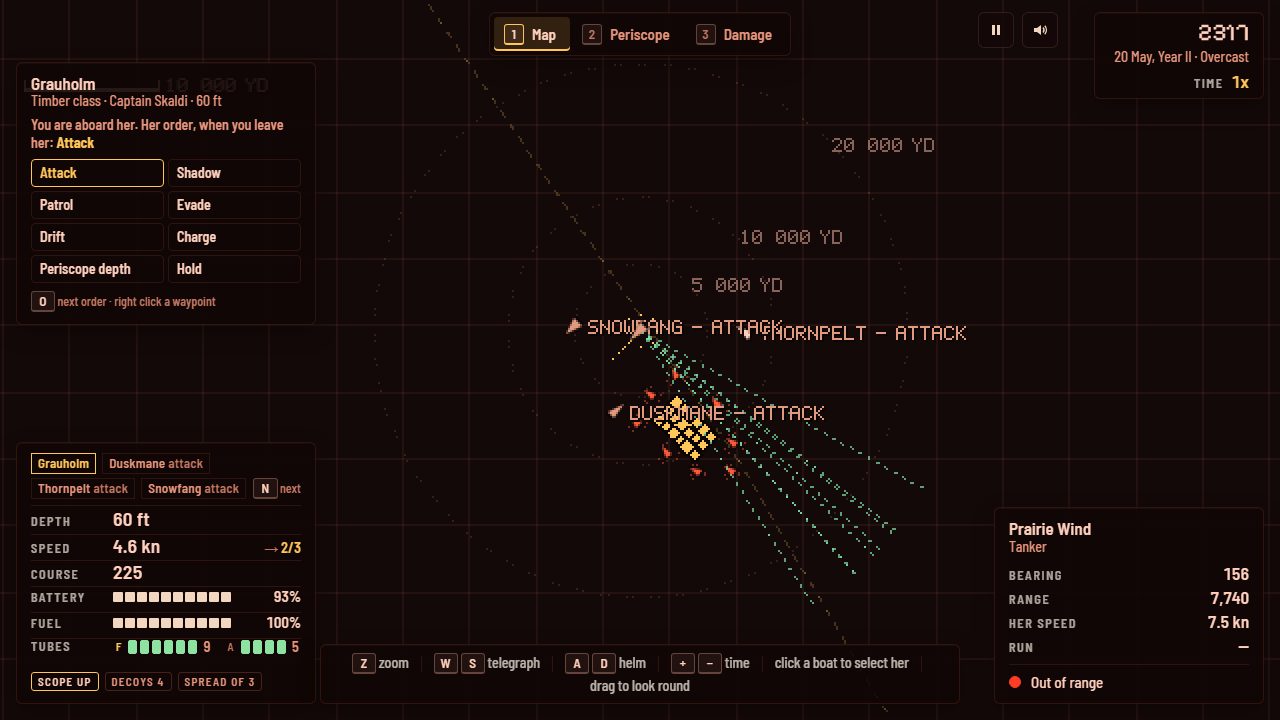
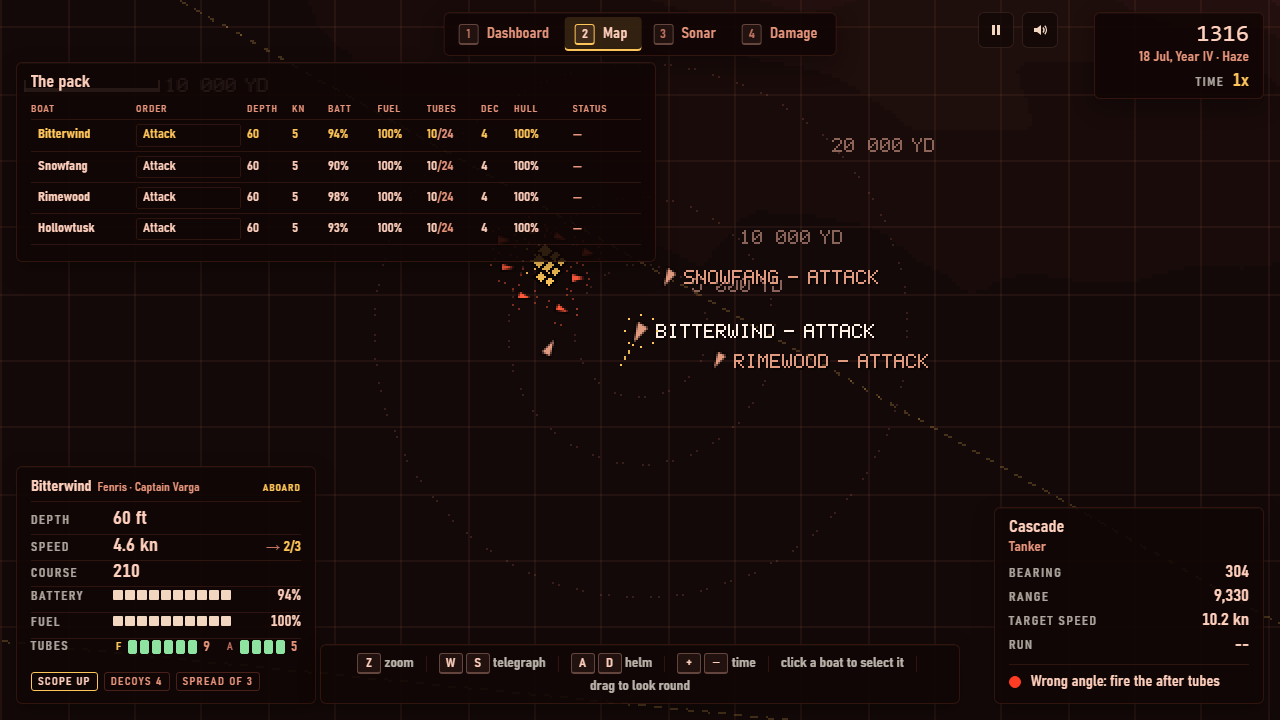
Docs: README, PRODUCT and DESIGN brought up to date; new screenshots
The README follows STANDARD.md §13: the game as it plays now (the
dashboard, the map's ship list and preview card, the sonar waterfall),
the keys 1-5, a Saves section, and six fresh 1280x720 screenshots
(sonar.png new). PRODUCT.md fixes the rename's slip and records that
the game is not bound to Wolfpack; DESIGN.md covers the title painting,
the telegraph, the ship list, the preview card and the waterfall.

The target panel's ON TARGET lamp moves beside the target's name when
the panel is too short for it below, and ?awake=1 keeps the game running
without focus, for headless pictures.

diff --git a/js/main.js b/js/main.js
@@ -844,8 +844,9 @@
     act(a, ev);
   });
   document.addEventListener("keyup", ev => { if (ev.key === "Shift") I.held.delete("shift"); I.up(ev); });
-  addEventListener("blur", () => { I.clear(); if (game.mode === "play") game.pause(); });
-  document.addEventListener("visibilitychange", () => { if (document.hidden) { checkpoint(); if (game.mode === "play") game.pause(); } });
+  /* (?awake=1, for pictures taken headless: the page never has the focus, and play goes on regardless) */
+  addEventListener("blur", () => { I.clear(); if (game.mode === "play" && !game.awake) game.pause(); });
+  document.addEventListener("visibilitychange", () => { if (document.hidden) { checkpoint(); if (game.mode === "play" && !game.awake) game.pause(); } });
   addEventListener("pagehide", () => checkpoint());
   document.addEventListener("pointerdown", () => { SFX.unlock(); if (game.mode === "title" && !SFX.tune && !SMALL.matches) SFX.startTune(); }, true);
   document.addEventListener("pointerover", ev => {
@@ -1066,7 +1067,8 @@
       HUD.build();
       for (const cls of ["freighter", "destroyer", "liner"]) for (const b of [4, 8, 12]) PP.ShipArt.sprite(cls, b, 46, "dusk");
       if (q.has("play")) {
-        /* debug: ?play=<action id>|practice&seed=<n>&side=<pack|escorts>&run=<steps>&station=<view|chart|damage>&hour=<h>&wx=<k>&pause=1 */
+        /* debug: ?play=<action id>|practice&seed=<n>&side=<pack|escorts>&run=<steps>&station=<chart|sonar|damage>&hour=<h>&wx=<k>&pause=1&awake=1 */
+        game.awake = q.has("awake");
         const p = q.get("play"), sd = +(q.get("seed") || 1);
         const S = p === "practice" ? E.newPractice({ seed: sd, real: PP.prefs.real }) : E.newAction(E.ACTIONS.some(a => a.id === p) ? p : "easy", { seed: sd, real: PP.prefs.real, side: q.get("side") || "pack" });
         /* &run=<steps>: the test pilot plays that many steps first, so the picture is mid-battle */

diff --git a/js/art/dash.js b/js/art/dash.js
@@ -391,12 +391,13 @@
       const rows = [["Bearing", PP.deg3(e.brg)], ["Range", PP.num(Math.round(e.rng / 50) * 50) + " yd"], ["Speed", Math.round(e.s) + " kn"], ["Angle", `${Math.round(Math.abs(e.aob) / PP.DEG)}° ${e.aob >= 0 ? "stbd" : "port"}`]];
       rows.forEach(([l, v], i) => lab("ct" + i, `<span class="c">${l}</span><b>${v}</b>`, x + 4, y + 18 + i * 9, "dl", "lm"));
     }
-    const st = !e ? -1 : sol && sol.ok ? 2 : 1, ly = y + h - 9, lx = x + 9;
+    /* the lamp at the foot; where the panel is too short for it under the four rows, up beside the target's name */
+    const low = h >= 18 + 4 * 9 + 8, st = !e ? -1 : sol && sol.ok ? 2 : 1, ly = low ? y + h - 9 : y + 7, lx = low ? x + 9 : x + w - 72;
     K.ring(g, lx, ly, 4, st >= 0 ? AMBER : DIM);
     if (st === 1) K.disc(g, lx, ly, 1.5, 1.5, AMBER);
     if (st === 2) K.disc(g, lx, ly, 4, 4, AMBER);
     const word = st === 2 ? "ON TARGET" : st < 0 ? "NO TARGET" : sol && sol.why === "gyro" ? "WRONG ANGLE" : sol && sol.why === "range" ? "OUT OF RANGE" : "NO SOLUTION";
-    lab("lamp", word, x + 17, ly, "dl lamp" + (st === 2 ? " lit" : st >= 0 ? " read" : ""), "lm");
+    lab("lamp", word, lx + 8, ly, "dl lamp" + (st === 2 ? " lit" : st >= 0 ? " read" : ""), "lm");
   }
 
   /* an odometer under a dial: figures on drums, each rolling up to the next as the one to its right turns over

diff --git a/index.html b/index.html
@@ -76,9 +76,9 @@
 <script src="js/art/intro.js?v=00db4c8a"></script>
 <script src="js/render.js?v=ba066d0c"></script>
 <script src="js/art/sonar.js?v=7cdb788b"></script>
-<script src="js/art/dash.js?v=bc926b65"></script>
+<script src="js/art/dash.js?v=d8d66df8"></script>
 <script src="js/hud.js?v=dc4a68d9"></script>
 <script src="js/screens.js?v=2c9fefa4"></script>
-<script src="js/main.js?v=88d82a8c"></script>
+<script src="js/main.js?v=08368dcf"></script>
 </body>
 </html>

diff --git a/README.md b/README.md
@@ -1,39 +1,42 @@
 # The Long Convoy
 
-**The Wolf Empire's wolfpack against Pumacity's convoys, and the fleet that escorts them.** A remake of *Wolfpack* (NovaLogic, 1990, DOS): command the wolfpack's boats one at a time while the rest sail under their orders, or sail with the Pumacity Defense Fleet (the PDF) and bring the city's shipping through, in modern hi-bit pixel art, in a boat rigged for red light.
+**Defend civilian shipping from the Wolf Empire's submarine packs, or switch sides and take it apart.** A modern re-imagining of *Wolfpack* (NovaLogic, 1990, DOS): command the wolfpack's boats one at a time while the rest sail under their orders, or sail with the Pumacity Defense Fleet (the PDF) and bring the city's convoys through, in hi-bit pixel art, in a boat rigged for red light.
 
 ## Play
 
 [greykit.com/games/thelongconvoy](https://greykit.com/games/thelongconvoy/)
 
-No install required. Plain scripts, no build step, nothing fetched at play time: every picture is drawn and every sound synthesised in the page; the two typefaces ship with it.
+No install required. Plain scripts, no build step, nothing fetched at play time: every picture is drawn and every sound synthesised in the page; the three typefaces ship with it.
 
-![The title: the pack board over the plot, the wolfpack closing on a convoy at night](screenshots/title.png)
+![The title: a destroyer steaming right at dusk, a U-boat running left under her in a dark red sea, and the menu on an engine-room telegraph](screenshots/title.png)
 
 ## How it plays
 
 Pumacity's convoys carry its oil, its ore and its troops between the islands, and the PDF's escorts ring them round. The Wolf Empire has a pack.
 
-- **The dashboard**, as in 1990: the vessel you are aboard, every instrument at once. The view out in the big window, the map in a small one, the telegraph, compass and depth, battery and fuel, the tubes, the snorkel and the Metox radar warning; on an escort the sonar scope and its passive/active switch, the charges' depth and the racks. Every control is a button with a key. **AUTO / USER CONTROL** hands the vessel to its orders while you watch.
-- **The map runs the battle**, as in 1990: the depth in hard bands, every boat of the pack, the convoy as the pack has seen it. Click a boat to select her: her class, captain, depth and order, and the orders to give her.
+- **The dashboard**, as in 1990: the vessel you are aboard, every instrument at once. The view out in the big window (the periscope at periscope depth, the bridge on the surface), the map and the sonar's waterfall in small ones, the telegraph, compass and depth, the dive bubble with its emergency blow and crash dive, battery and fuel, the target and its lamp, and the boat's plan with her tubes, reloads, deck gun, snorkel, radar and noisemakers; on an escort the sonar scope and its passive/active switch, the charges' depth and the racks. Every control is a button with a key. **AUTO / USER CONTROL** hands the vessel to its orders while you watch.
+- **The map runs the battle**, as in 1990: the depth in hard bands, the convoy as your side has seen it, and your whole side listed, a row a vessel: her order, depth, speed, battery, fuel, tubes, noisemakers, hull and her lamps (hunted, silent, charging, snorkelling; on an escort pinging, or too fast to hear). A click on a row selects her and a second takes command; a click on her order gives her the next one. The card at the lower left shows whichever vessel the mouse is over.
 - **Every boat sails under her order:** Attack (her captain finds the convoy and goes in), Shadow, Patrol (her waypoints: a right click on the map), Evade, Drift, Charge, Periscope depth, Hold.
-- **Take command of one boat at a time** (`Enter`, a second click, or `N` for the next): then the view out of her is yours, the periscope at periscope depth and the bridge on the surface, with her helm, telegraph and tubes.
-- **Select and fire.** `T` or a click selects a ship; `Space` fires at her, or at the nearest in range. The boat's fire control aims the shot, and says so when the angle is wrong for those tubes or the range too long. Ships are traced from 3D models at their true angle on the bow; escorts hear, see and ping, and lay depth charges.
+- **Take command of one boat at a time** (`Enter`, a second click, or `N` for the next): then the view out of her is yours, with her helm, telegraph and tubes.
+- **Select and fire.** `T` or a click selects a ship; `Space` fires the spread at her, or at the nearest in range, one torpedo after another. The boat's fire control aims each, and says so when the angle is wrong for those tubes or the range too long. On the surface the deck gun's crew lay it themselves; `G` fires. Ships are traced from 3D models at their true angle on the bow.
+- **The sonar**, after *688 Attack Sub*'s: a waterfall of what you hear, a band at each thing's bearing, brighter the louder, your own speed the noise floor; a depth charge a line right across. An escort's pings are heard going out and coming back off every hull in the beam; from a U-boat you hear them strike yours.
 - **The pack shares what it sees**, and its news comes in its boats' names: who is firing, who is hunted, who is lost. When the boat you are on goes down, command passes to the next.
 
-Eight missions after the 1990 game's, set in the Wolf War: from two boats against five unescorted ships, through the fuel tankers and a hunter-killer group, to eight boats in the decisive battle. And a custom mission of your own making. A boat under water can drop a noisemaker for the escorts to hunt instead of her, and a boat whose radio is damaged can neither take your orders nor send you news.
+Eight missions after the 1990 game's, set in the Wolf War: from two boats against five unescorted ships, through the fuel tankers and a hunter-killer group, to eight boats in the decisive battle. And a custom mission of your own making, and target practice to learn the attack. A boat under water can drop a noisemaker for the escorts to hunt instead of her, and a boat whose radio is damaged can neither take your orders nor send you news.
 
-**Or play the other side**, as the original let you: the **Pumacity Defense Fleet**, aboard one of the convoy's escorts, against a wolfpack whose boats sail under their own captains. Sprint and drift to hear them, ping with the sonar, run in over a contact and lay a pattern of depth charges set to its depth, throw the hedgehog late in the war, and give the other escorts their orders from the map (screen, hunt, patrol, hold). Eight missions have the PDF's side, among them the night defence of an anchorage.
+**Or play the other side**, as the original let you: the **Pumacity Defense Fleet**, aboard one of the convoy's escorts, against a wolfpack whose boats sail under their own captains. Sprint and drift to hear them, ping with the sonar, run in over a contact and lay a pattern of depth charges set to its depth, throw the hedgehog late in the war, fight a surfaced boat with the guns, and give the other escorts their orders from the map (screen, hunt, patrol, hold). Eight missions have the PDF's side, among them the night defence of an anchorage.
 
 Every mission ends with the 1990 game's debrief: who won, a score and one of eleven ratings, each side's vessels at the start and lost, every weapon's fired, hits and kills, and every boat by name.
 
-![The map as the wolfpack: every boat's order beside her, the orders panel for the one selected, the convoy under the hydrophones' lines of bearing](screenshots/map.png)
+![The map as the wolfpack: the pack listed with each boat's order, depth, battery, tubes and hull, the boats on the plot, and the card for the boat you are aboard](screenshots/map.png)
 
-![A wolf boat's dashboard: the periscope on the convoy in the big window, the map in the small one, the telegraph, compass, depth, battery and fuel, the tubes, the snorkel and Metox](screenshots/dashboard.png)
+![A wolf boat's dashboard: the periscope on a tanker at 2,500 yards, the target lamp on, the sonar's waterfall with the convoy's band ahead, the dials, the dive bubble and the boat's plan with her tubes](screenshots/dashboard.png)
 
-![A PDF escort's dashboard: her bridge, the telegraph and compass, the sonar scope and its P / A switch, the charges set for 150 feet](screenshots/pdf-dashboard.png)
+![The Sonar screen aboard an escort: the convoy's screws as bands on the waterfall, and what is heard listed by bearing](screenshots/sonar.png)
 
-![The map as the PDF: the escorts round the convoy, each with her order, the escort you are aboard and her charges set for 150 feet](screenshots/escorts.png)
+![A PDF escort's dashboard: her bridge, the waterfall, the telegraph and compass, the sonar scope with active pinging on, the patterns, the racks and the hedgehog](screenshots/pdf-dashboard.png)
+
+![The map as the PDF: the escort group listed with each escort's order, contact, charges, hull and lamps, and the card for the escort you are aboard](screenshots/escorts.png)
 
 ## Reality, and Classic and Field
 
@@ -43,42 +46,48 @@ Every mission ends with the 1990 game's debrief: who won, a score and one of ele
 
 | | |
 |---|---|
-| `1` / `2` / `3` / `4` / `5` | the dashboard / the map, with your whole side listed / the sonar / damage / the captain's log |
+| `1` / `2` / `3` / `4` / `5` | the dashboard / the map / the sonar / damage (a U-boat's) / the captain's log |
 | `J` / `I` | AUTO or USER CONTROL / the snorkel |
-| Click, `O`, right click | on the map: select a boat (her mark, her name tag, or her name in the panel), give her the next order, add her a waypoint |
-| Click a boat's order / wheel | on the map: her orders menu at the mouse / zoom about the mouse |
-| `Enter` / `N` | take command of the boat selected / of the next boat |
+| Click, `O`, right click | on the map: select a vessel (her row in the list, her mark or her name tag), give her the next order, add her a waypoint |
+| Click an order / wheel | in the map's list: her next order (`Shift`: the one before); on the map, her order tag opens her orders / zoom about the mouse |
+| `Enter` / `N` | take command of the vessel selected / of the next |
 | `W` `S` | telegraph |
-| `A` `D` | helm |
+| `A` `D` | the rudder, while held |
 | `Q` `E` / `PgUp` `PgDn` | depth; `P` periscope depth, `U` surface, `C` crash dive |
 | Arrows | in the view: train and raise the periscope, look round; on the map: the helm and telegraph |
-| `T` | select the ship nearest the crosshair |
-| `Space` | fire at the target, or the nearest in range; `F` forward or after tubes, `V` a spread |
-| `X` / `K` / `Y` / `G` | silent running / a noisemaker / radar / man the deck gun |
+| `T` / `H` / `B` | select the ship nearest the crosshair / swing onto the target / to the bow, again the stern |
+| `Space` | fire the spread at the target, or the nearest in range; `F` forward or after tubes, `V` the spread (one to four) |
+| `G` | man the deck gun; manned, fire it; `Shift`+`G` secures it |
+| `X` / `K` / `Y` | silent running / a noisemaker / radar |
 | `+` `−` / `Backspace` | time compression / back to 1x |
-| `Esc` / `L` / `M` / `?` | pause / Classic or Field / sound / every key |
+| `Esc` / `L` / `M` / `?` | pause / Classic or Field / sound / help |
 
-On the PDF's side: `W` `S` and `A` `D` speed and helm, `X` sonar, `Q` `E` the charges' depth (`Shift` for 100 feet), `V` the weapon (the diamond, double or wide pattern, or the hedgehog), `Space` lays it when the lamp says over the contact, `F` the hedgehog at once, `G` the guns, `T` the next boat up in sight for them (or click her in the view), `N` the next escort, and on the map `O` and a right click for the others' orders.
+On the PDF's side: `W` `S` and `A` `D` speed and helm, `X` sonar (passive or active), `Q` `E` the charges' depth (`Shift` for 100 feet), `V` the weapon (the diamond, double or wide pattern, or the hedgehog), `Space` lays it when the lamp says over the contact, `F` the hedgehog at once, `G` the guns, `T` the next boat up in sight for them (or click her in the view), `N` the next escort, and on the map `O` and a right click for the others' orders.
 
-A gamepad works too; Help has its map.
+The dashboard's Blow and Crash buttons ask for a second click; `C` crash-dives at once. A gamepad works too; Help has its map. It is a desktop game: on a phone or a small window the page says so instead.
+
+## Saves
+
+Everything is in this browser's `localStorage` under keys starting `thelongconvoy_`: a mission in progress, the service record (each mission's best), the settings and the sound. Settings → *Forget everything* clears exactly those. Saves from when the game was PumaPack (`pumapack_`) move over the first time it opens.
 
 ## Code
 
 ```
 js/engine/   the war, DOM-free: the sea, the boats of the pack, the ships and convoys, seeing and being seen, the escorts,
              torpedoes and the fire control, the missions, a step of it all, the captain and the orders each boat sails under
-js/art/      the pixel art: the kit, the tracer, the ship models, the view out, the map, the sonar, the damage report
-js/          rendering, the HUD, input, sound, the screens, settings and the record, and the loop
+js/art/      the pixel art: the kit, the tracer, the ship models, the view out, the map, the title's painting, the sonar's
+             waterfall, the dashboard, the damage report
+js/          rendering, the HUD, input, sound and the title theme, the screens, settings and the record, and the loop
 tools/       sim-check (the captain plays every mission headless, the whole pack at once), asset stamps and checks, icons, the share card
 ```
 
-`node tools/sim-check.js` plays every mission headless: the fire control's solution hits, the pack sinks ships, the boats you are not on fire on their own, the escorts hunt, and a mission replays step for step and survives being saved and loaded half way. `node tools/stamp-assets.js` stamps every script and stylesheet with its hash after an edit. `tools/ORIGINAL.md` is what the 1990 game's files hold, in our own words.
+`node tools/sim-check.js` plays every mission headless: the fire control's solution hits, the pack sinks ships, the boats you are not on fire on their own, the escorts hunt, and a mission replays step for step and survives being saved and loaded half way. `node tools/stamp-assets.js` stamps every script and stylesheet with its hash after an edit. `?play=<mission>&side=<pack|escorts>&seed=<n>&run=<steps>&station=<chart|sonar|damage>&awake=1` on the page drops straight into a mission, for testing and for pictures. `tools/ORIGINAL.md` is what the 1990 game's files hold, in our own words.
 
-The Long Convoy began as a copy of [Puma Service](https://greykit.com/games/pumaservice/) and shares its sea, its boats and its view out; the screens, the controls and the code are its own.
+The Long Convoy began as a copy of [Puma Service](https://greykit.com/games/pumaservice/) and shares its sea, its boats and its view out; the screens, the controls and the code are its own. Its sonar's waterfall follows Attack Puma's.
 
 ## Credits
 
-The original *Wolfpack* was made by NovaLogic, 1990. This remake is not affiliated with NovaLogic; no code, art or audio from it is used. The boats, the ships, the islands and the war are our own.
+The original *Wolfpack* was made by NovaLogic, 1990. This remake is not affiliated with NovaLogic; no code, art or audio from it is used. The boats, the ships, the islands and the war are our own. The typefaces are Barlow Semi Condensed, Courier Prime and Pixelify Sans, under the SIL Open Font License; their licences are beside them in `fonts/`.
 
 By Matthew "Shan" Romanek, with Claude. Built by [greykit.com](https://greykit.com/).
 

diff --git a/DESIGN.md b/DESIGN.md
@@ -81,7 +81,8 @@ Two sides share one look. As the Wolf Empire's wolfpack you are aboard a submari
 
 **Key Characteristics:**
 - Red light inside, the world's own colours outside.
-- The map first: a plot under red light, the depth in ten hard bands as the 1990 sea maps had them.
+- The map first: a plot under red light, the depth in ten hard bands as the 1990 sea maps had them, and your whole side listed on it.
+- The title outside the hull: a 16-bit painting of a destroyer at dusk over a U-boat in a dark red sea, the menu an engine-room telegraph.
 - Colour as role: amber = a reading, chosen, ready; green = a good lamp; orange = a warning; hot red = danger. Nothing is told by colour alone: on the map merchants are diamonds, escorts and boats triangles, a sinking ship a cross.
 - Barlow Semi Condensed for every printed word and reading, tabular figures for numbers; Courier Prime for what is typed on a board; Pixelify Sans for the wordmark and the clock.
 - Pixel art drawn in code: five-step ramps, a 4x4 ordered dither, a dark outline; ships traced from 3D models at their true angle on the bow.
@@ -95,7 +96,7 @@ A near-black ground warmed toward red, one family of red-orange light for every 
 - **text** for readings, **muted** for labels, **faint** for the least of them. Measured against the panel: text 14.3:1, muted 8.6:1, faint 5.8:1, amber 12.8:1, danger text 7.8:1, green 13.0:1.
 
 ### The boards (every screen of words)
-The title's menu (the pack board), the pause, the sheets, the questions and the debrief are **boards**: a dark ground (**board**), its printed labels in **board-print**, what is typed in **board-ink** (Courier Prime), the focus in **board-pencil** amber.
+The pause, the sheets, the questions and the debrief are **boards**: a dark ground (**board**), its printed labels in **board-print**, what is typed in **board-ink** (Courier Prime), the focus in **board-pencil** amber.
 
 ### The map
 - Ten depth bands from **map-shoal** to **map-deep**; land **map-land** with a bright **map-coast** line.
@@ -111,11 +112,11 @@ The title's menu (the pack board), the pause, the sheets, the questions and the 
 - **Wordmark:** Pixelify Sans 700, block letters with a stepped shadow in four darkening reds, after the 1990 title. The title only, and the share card.
 - **Readings:** Barlow Semi Condensed 600 at 19px, tabular figures.
 - **Labels:** Barlow Semi Condensed 600 at 12px, tracked 0.14em, upper case.
-- **Typed:** Courier Prime on the boards: the boats, the date-time group, the contact.
+- **Typed:** Courier Prime on the boards: the pause's slip (the position, the date-time group, what is sunk).
 
 ## Layout
 
-The play screen is the **dashboard** of the vessel you are aboard, as the 1990 game had one per kind of vessel, drawn on one canvas at about 640 by 360 and scaled up whole (`js/art/dash.js`): the view out in the big window top right, the strip of its controls under it; the small map top left, then timing, AUTO / USER CONTROL, the screens and the message window down the left; the gauges along the foot, the vessel's own (a submarine's telegraph, compass, depth, battery and fuel, tubes, snorkel and Metox; an escort's telegraph, compass, sonar scope and P / A switch, charges and racks, hedgehog). Every reading is a HUD label and every control a real button over the canvas, each with its key. The Map, Damage and Status screens are full screens, with the old panels and a way back.
+The play screen is the **dashboard** of the vessel you are aboard, as the 1990 game had one per kind of vessel, drawn on one canvas at about 640 by 360 and scaled up whole (`js/art/dash.js`): the view out in the big window top right, the strip of its controls under it; the small map top left, then timing, AUTO / USER CONTROL, the screens, the sonar's waterfall and the message window down the left; the gauges along the foot, the vessel's own (a submarine's telegraph, compass, depth, battery and fuel, tubes, snorkel and Metox; an escort's telegraph, compass, sonar scope and P / A switch, charges and racks, hedgehog). Every reading is a HUD label and every control a real button over the canvas, each with its key. The Map, Sonar and Damage screens (`2`, `3`, `4`) are full screens, each with a way back; the Captain's log (`5`) is a sheet over the screen.
 
 ## Elevation & Depth
 
@@ -126,8 +127,14 @@ Flat. A panel is set apart by its edge and a soft shadow, never by a gradient or
 ### HUD panels
 Square-ish (6px), **hud-panel** ground, hairline edge. A row is a label, a reading and an order beside it in amber when the order differs from the reading.
 
-### The pack row and the orders panel
-Each boat (or escort) a small square-cornered tag; the one you are aboard edged in amber. On the map the orders panel shows the selected vessel's class, captain, depth and order, and a grid of the orders, the current one edged in amber.
+### The ship list and the preview card
+On the map, top left, your whole side in a table, a row a vessel, in fixed columns with tabular figures so nothing moves as the numbers change: the one you are aboard in amber, the one selected marked with an amber bar. Her order is a framed button the width of its column (a click gives the next). Her lamps are words in small boxes, lit only when they apply: red for danger (hunted, flooding, radio out, deaf), amber for a state (silent, snorkel, radar, active), green for good (charging). At the lower left a HUD panel shows whichever vessel the mouse is over, in the list or on the plot, else the one you are aboard: her name, class and order at its head, her readings and bars under it.
+
+### The telegraph (the title's menu)
+A brass engine-room telegraph drawn in SVG: a brass rim and bolts round a red-lit face, the choices set round it where the bells go, from lower left to lower right as the dashboard's telegraph has them. A brass arm swings to the choice pointed at or keyed, with a little overshoot; the window under the hub says it in full, in the wordmark's face. The bell rings a choice.
+
+### The sonar's waterfall
+What the vessel hears, across by bearing from the bow (astern at both ends, hatched), down by time, the newest line at the top, a line a second. A ramp of nine steps from the dark of the sea through the red light to cream; each thing heard a band, brighter the louder; the sea a speckle that rises with your own noise. Small in the dashboard's left column; full on the Sonar screen, with what is heard listed beside it.
 
 ### Boards
 Dark ground, 2px corners, a red cast inside, the print and the typed entries as above. The focus is the amber pencil tick and an underline, not a ring.
@@ -136,7 +143,7 @@ Dark ground, 2px corners, a red cast inside, the print and the typed entries as 
 A board: the winner in green (your side) or red (theirs), the score and the rating, the two sides at the start and lost, every vessel of the pack, every weapon of both sides.
 
 ### Pixel-art stations (js/art/)
-The view out (bridge, glasses, periscope) and the damage report are drawn from the world's own ramps; the map is drawn in the red light's.
+The view out (bridge, glasses, periscope) and the damage report are drawn from the world's own ramps; the map and the sonar's waterfall in the red light's. The title's painting (`js/art/intro.js`) is the world outside: a blue sky going to dusk over a dark red sea, a few colours to a ramp, dithered in a 4x4 Bayer pattern, the destroyer and the U-boat painted a pixel at a time.
 
 ## Do's and Don'ts
 

diff --git a/PRODUCT.md b/PRODUCT.md
@@ -12,11 +12,11 @@ Desktop players of all kinds, new players first: people who never played *Wolfpa
 
 ## Product Purpose
 
-A remake of NovaLogic's *Wolfpack* (DOS, 1990): the Wolf Empire's wolfpack of submarines against Pumacity's shipping and the Pumacity Defense Fleet (the PDF) that escorts it (owner's story, 2026-10-27). As the wolfpack: a pack of boats against an escorted convoy, commanded one boat at a time while the others hunt under their own captains, attacked through the periscope with a torpedo data computer, hunted with sonar and depth charges. The original let you play either side, and so does The Long Convoy: the escorts' side puts you aboard one of the convoy's escorts against a pack under its own captains. Success is a player who brings two boats in on a convoy from two sides, sinks ships, and gets most of the pack home.
+A remake of NovaLogic's *Wolfpack* (DOS, 1990): the Wolf Empire's wolfpack of submarines against Pumacity's shipping and the Pumacity Defense Fleet (the PDF) that escorts it (owner's story, 2026-10-27). As the wolfpack: a pack of boats against an escorted convoy, commanded one boat at a time while the others hunt under their own captains, attacked through the periscope by selecting a ship and firing, the boat's fire control aiming the spread, hunted with sonar and depth charges. The original let you play either side, and so does The Long Convoy: the escorts' side puts you aboard one of the convoy's escorts against a pack under its own captains. Success is a player who brings two boats in on a convoy from two sides, sinks ships, and gets most of the pack home.
 
 ## Positioning
 
-The 1990 game's design (the pack, switching command between boats, the convoy and its escorts, missions on both sides), rebuilt as its own game rather than an emulation, on Puma Service's sea, boats and periscope. Classic plays with the instruments and your eyes; Field adds modern aids; reality is set apart from the aids.
+The 1990 game's design (the pack, switching command between boats, the convoy and its escorts, missions on both sides), rebuilt as its own game rather than an emulation, on Puma Service's sea, boats and periscope. It need not be faithful to *Wolfpack* (owner, 2026-10-29): it is our own thing, and takes what plays well from elsewhere, as its sonar's waterfall comes from *688 Attack Sub* by way of Attack Puma. Classic plays with the instruments and your eyes; Field adds modern aids; reality is set apart from the aids.
 
 ## Operating Context
 
@@ -34,10 +34,11 @@ Part of the greykit.games portfolio, served at greykit.com/games/thelongconvoy. 
 
 ## Brand Commitments
 
-- The name: The Long Convoy (owner, 2026-10-29), at greykit.com/games/thelongconvoy; it was The Long Convoy until then, and its saved keys are moved over once. The name keeps "Pumacity" out of the title; the story keeps Pumacity and the PDF. The submarines are the Wolf Empire's wolfpack; the convoys are Pumacity's, escorted by the Pumacity Defense Fleet (the PDF).
+- The name: The Long Convoy (owner, 2026-10-29), at greykit.com/games/thelongconvoy; it was PumaPack until then, and its saved keys are moved over once. The name keeps "Pumacity" out of the title; the story keeps Pumacity and the PDF. The submarines are the Wolf Empire's wolfpack; the convoys are Pumacity's, escorted by the Pumacity Defense Fleet (the PDF).
 - The same fictional archipelago and Wolf War as Puma Service; every place and ship name our own.
 - Modern hi-bit pixel art at about 640 by 360; past the boot, a boat rigged for red light (owner's decision, 2026-10-26): black panels, red-orange light, amber readouts; the view out keeps the world's own colours.
-- The 1990 game's screens, not Puma Service's (owner's note, 2026-10-26): the map runs the battle, the view out of the boat you are on, the damage; orders for every boat; select and fire, no torpedo data computer.
+- The 1990 game's screens, not Puma Service's (owner's note, 2026-10-26): the map runs the battle, with your whole side listed on it; the dashboard of the vessel you are on; the sonar; the damage; orders for every vessel; select and fire, no torpedo data computer.
+- The title is a 16-bit painting, a destroyer at dusk over a U-boat in a dark red sea, under a slow, somber hunting theme; its menu is an engine-room telegraph (owner, 2026-10-29).
 - It must not look like a mobile game, and it must not look like it is running in an emulator.
 
 ## Evidence on Hand
